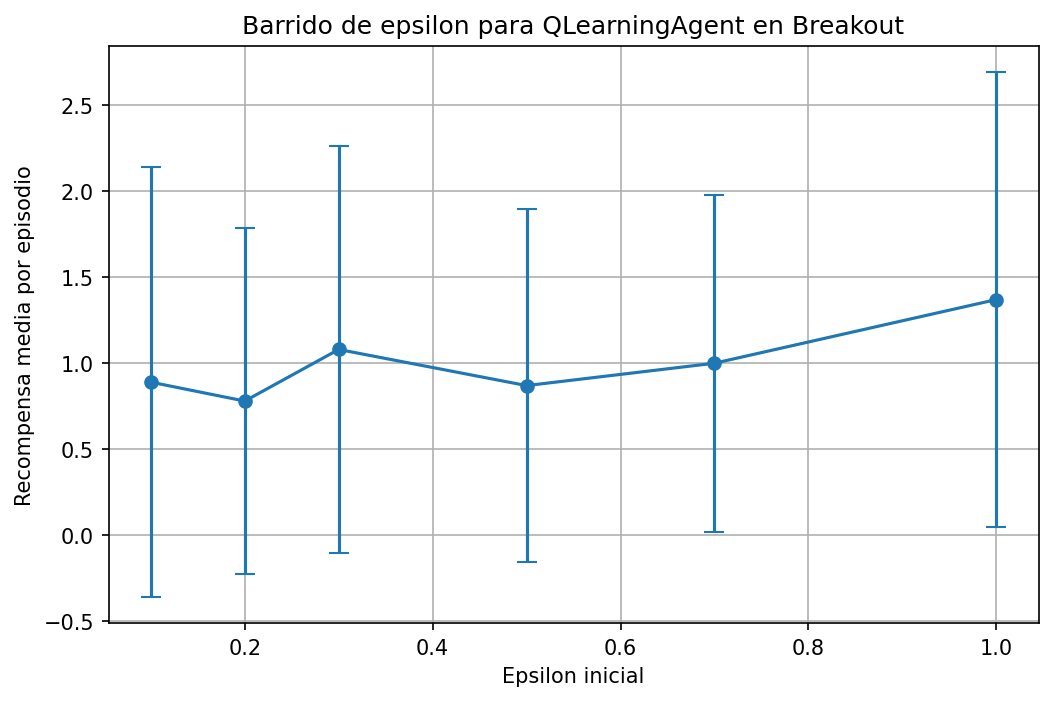
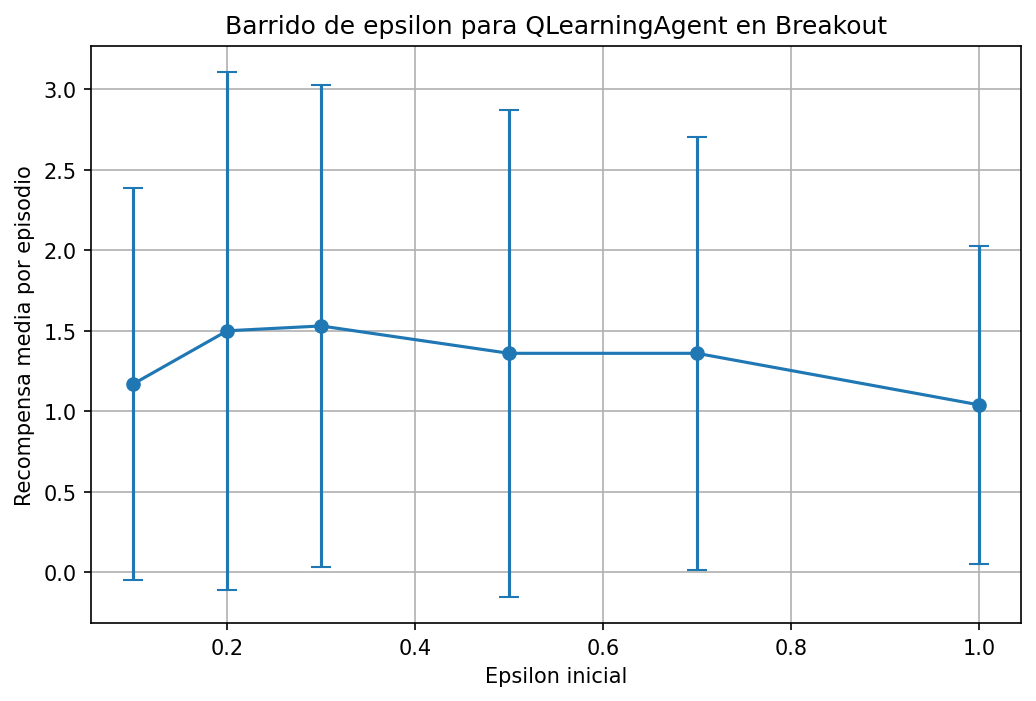
refactor: update Q-Learning agent for improved parameter handling, robust state discretization, and randomized action tie-breaking; remove unused serialized q_table file.

diff --git a/agents/qLearning/train_qlearning.py b/agents/qLearning/train_qlearning.py
@@ -16,8 +16,8 @@ def main():
     agent = QLearningAgent(env.action_space)
     
     # Load existing model if available
-    model_path = "agents/qLearning/q_table.pkl"
-    #agent.load(model_path)
+    model_path = "q_table.pkl"
+    agent.load(model_path)
 
     episodes = 100
     save_interval = 10

diff --git a/agents/qLearning/qlearning_agent.py b/agents/qLearning/qlearning_agent.py
@@ -6,9 +6,9 @@ class QLearningAgent:
     def __init__(
         self,
         action_space,
-        alpha=1.0,
+        alpha=0.3,
         gamma=0.99,
-        epsilon=1.0,
+        epsilon=0.3,
         epsilon_decay=0.9995,
         epsilon_min=0.01,
         alpha_decay=1.0,

diff --git a/agents/qLearning/sweep_epsilon.py b/agents/qLearning/sweep_epsilon.py
@@ -175,7 +175,7 @@ def main():
         episodes_per_value=episodes_per_value,
         epsilon_decay=0.9995,
         epsilon_min=0.01,
-        alpha=1,
+        alpha=0.3,
         gamma=0.99,
     )
 
